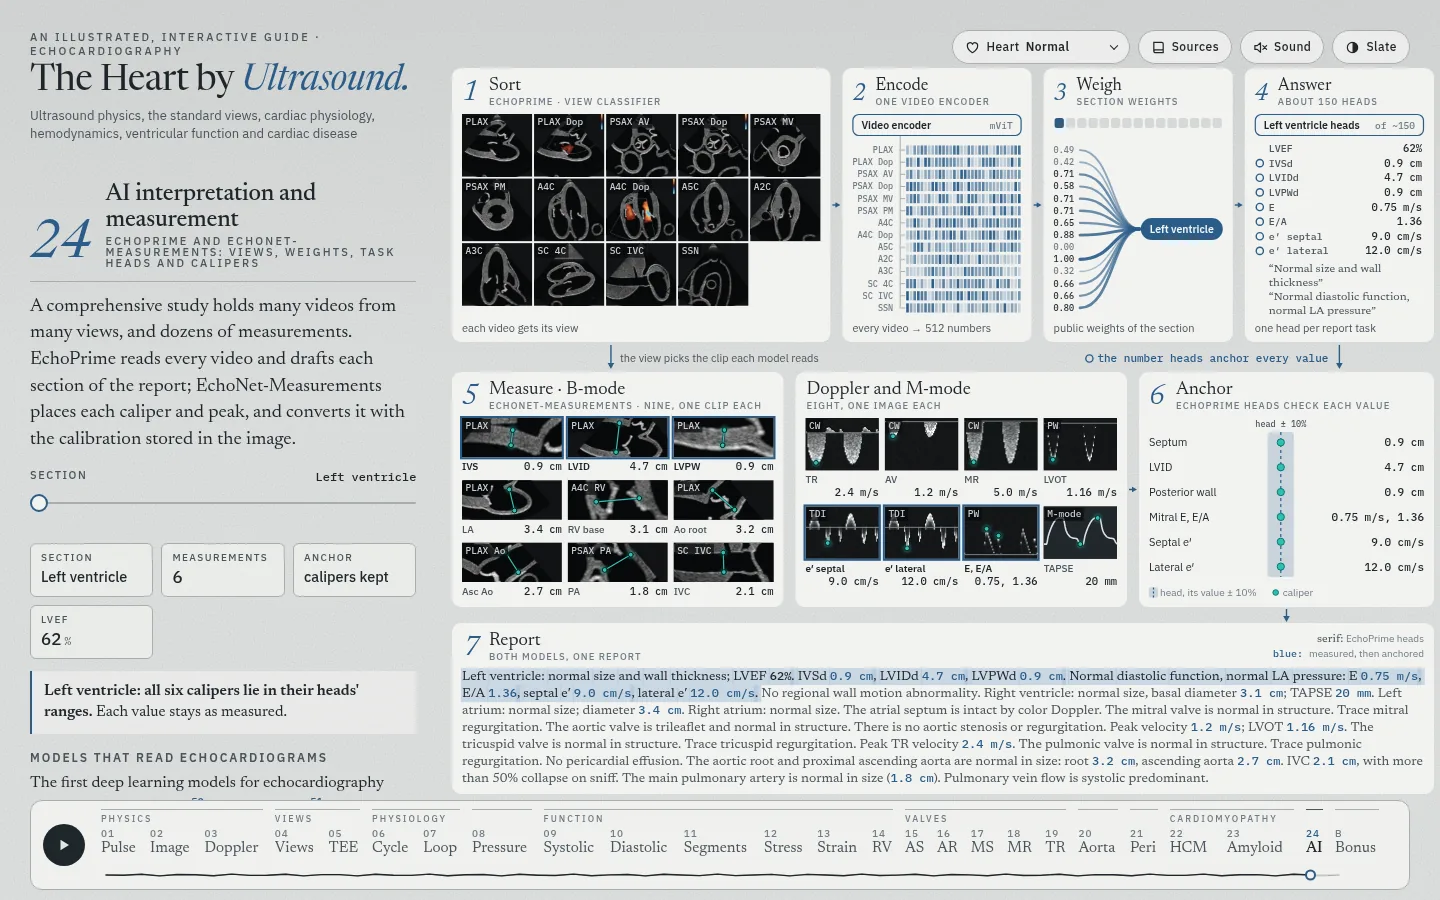
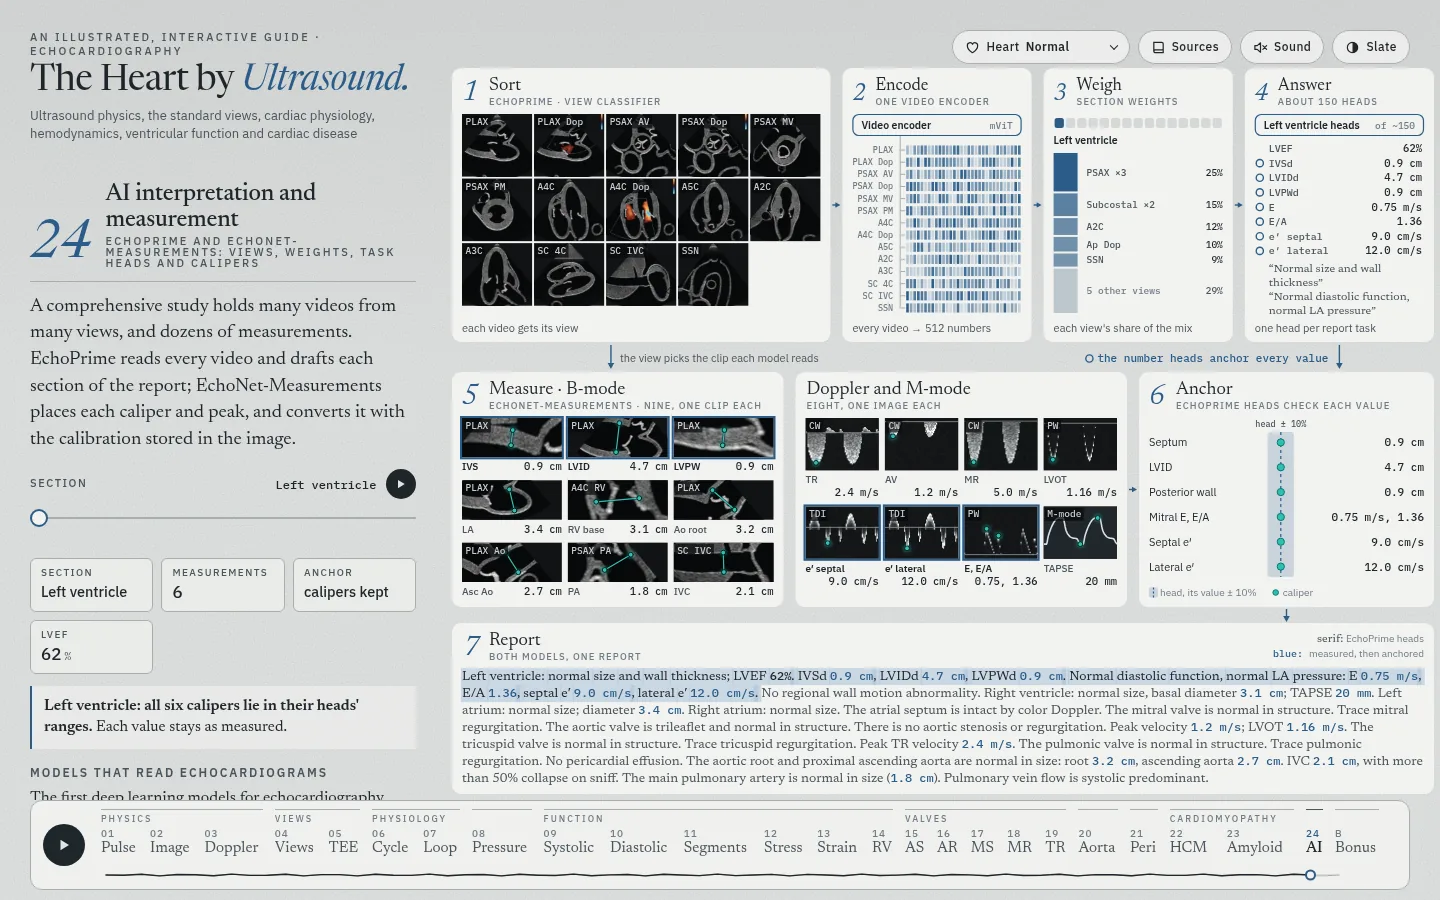
README: AI video and intro clip rendered with the mix; screenshot
- The AI video and the intro's AI clip, rendered again with step 3 as
  each view's share of the mix: frames, loudness, audio and the frame
  diff against the renders before.
- docs/screenshots/ai.webp taken again: the mix and the Play button.
- The video tables name the mix in place of the weights.

Claude-Session: https://claude.ai/code/session_01NtQNVy8YQ5NUAw3xwF3MnN

diff --git a/README.md b/README.md
@@ -479,6 +479,7 @@ The videos go to `video/out/`, which git ignores. Each frame depends on its time
 - Rendered again on October 8, 2026, after the color fix of #102, from the tree of main `d72284f`: 16 Aortic stenosis, 17 Aortic regurgitation, 21 Diseases of the aorta, B1 Left ventricular assist devices (2,777 frames) and B6 Complications of myocardial infarction (4,089 frames), with the scores in use. B1 and B6 measure −14.9 LUFS, with a true peak of −4.4 and −4.2 dBFS. The three main chapters were rendered again with the merge below, for their new numbers.
 - Rendered on October 8, 2026, with the merge of the IVC into 08 Doppler hemodynamics: its video in eight steps (1:15). The first five are the steps of the flow and the pressure. The switch to the IVC setting is a cut. The last three steps set the IVC for an RA pressure of 3, 8 and 15 mmHg, so the RV systolic pressure reads 39, 44 and 51 mmHg. Its score is built from the seed of Doppler hemodynamics, 9304. The video of 08 Inferior vena cava leaves the list, and its entry is in `archive/ivc.html`. 09 Systolic function to 24 AI interpretation and measurement were rendered again for their numbers (10 to 25 before), with the scores in use. Each has every frame of its layout, −14.8 to −14.9 LUFS and a true peak of −3.3 to −4.4 dBFS, with its moov atom before the media data. Against the renders before, frames of 09 to 23 at a quarter, a half and three quarters of each video differ only in the caption band, where the chapter's number changed. 24 shows the figure without tabs (#104) for the first time: the render before, as 25, still showed the tabs.
 - Rendered again on October 9, 2026, from this branch after #108: 24 AI interpretation and measurement, with this branch's figure: the marks in the InVision teal, no anchor check under each tile, steps 2, 3, 4 and 6 redrawn, and a label on every row of steps 2 and 3. It has every frame of its layout (2,237), −14.9 LUFS, a true peak of −4.1 dBFS and its moov atom before the media data. Its audio decodes to the same samples as the render before. A first render before `f81572b` is kept in `video/out/old/2026-10-09-pre-labels/`. Against it, at every 30th frame, the new labels of steps 2 and 3 change up to 1,240 pixels of a frame, and the encoding up to 39 pixels elsewhere. The render as 25 is kept in `video/out/old/2026-10-08-ai25/`.
+- Rendered again on October 10, 2026, with step 3 as each view's share of the chosen section's mix: 24 AI interpretation and measurement. The steps, their times and the length (1:15) do not change; the site's new Play button does not reach the video. It has every frame of its layout (2,237), −14.9 LUFS, a true peak of −4.1 dBFS and its moov atom before the media data. Its audio decodes to the same samples as the render before, which is kept in `video/out/old/2026-10-10-pre-share/`. Against it, at every 30th frame, the opening (frames 0 to 90) and the end card (2,130 to 2,220) are unchanged. In the frames between, the step-3 card shows the mix, and the captions of Weigh and Aortic valve name the two largest shares (up to 90,382 pixels of a frame).
 - Added on October 5, 2026, with its chapter: 25 Shunts: ASD, VSD and PFO (21 when added), eight steps in 1:21. The saline study starts again at each PFO step, so each step shows the bubbles arrive. A chapter title too long for one line on the title card takes smaller type, and the intro's card stays as it was (`fitTitle` in `video/chapter.js`).
 - Added on October 5, 2026, with its chapter: 20 Infective endocarditis (19 when added), seven steps (1:06).
 - Added on October 5, 2026, with its chapter: 26 Cardiac masses and thrombus (21 when added), eleven steps (1:33). Its title takes smaller type on the title card (`fitTitle`).
@@ -516,7 +517,7 @@ The videos go to `video/out/`, which git ignores. Each frame depends on its time
 | 21 Pericardial disease | No pericardial effusion to tamponade; constriction, then all three Mayo Clinic criteria | 1:06 |
 | 22 Hypertrophic cardiomyopathy | A normal wall; a septum of 14 mm; 16 mm without obstruction, then end-diastole; obstruction at rest, then severe; latent obstruction at rest, then with Valsalva and its SAM; severe obstruction with Valsalva | 1:32 |
 | 23 Cardiac amyloidosis | A normal wall to relative apical sparing | 0:48 |
-| 24 AI interpretation and measurement | The tour on the normal heart, with every step in view: views, encoder, the LV and aortic valve weights and task heads; then the 18 measurements, the anchor and the report's LV and aortic valve | 1:15 |
+| 24 AI interpretation and measurement | The tour on the normal heart, with every step in view: views, encoder, the LV and aortic valve mix and task heads; then the 18 measurements, the anchor and the report's LV and aortic valve | 1:15 |
 | B1 Left ventricular assist devices | A working pump at 4,700, 5,300 and 5,900 rpm, then a suction event at 6,200 rpm; RV failure at 6,200 rpm, then at 4,600 rpm; de novo AR at 4,700 and 6,000 rpm; an obstruction of the outflow graft at 4,700 rpm, then no change at 6,100 rpm | 1:33 |
 | B2 Prosthetic valves | A bioprosthesis: normal, possible stenosis and significant stenosis; a mechanical valve: the same three; then moderate and severe prosthesis–patient mismatch | 1:22 |
 | B3 Infective endocarditis | No vegetation; a vegetation below 10 mm; 10 mm or more; diastole, with the vegetation in the LV; leaflet perforation with mild, moderate and severe MR | 1:06 |
@@ -547,7 +548,7 @@ node tools/storyboard.mjs --ch=as                              # one frame of ea
 | 52.6 | 18 Mitral regurgitation | No regurgitation, then severe with LV dysfunction |
 | 59.4 | 21 Pericardial disease | No pericardial effusion, then tamponade |
 | 66.3 | 23 Cardiac amyloidosis | A normal wall, then relative apical sparing |
-| 73.1 | 24 AI interpretation and measurement | The LV section's weights, its task heads and the anchor |
+| 73.1 | 24 AI interpretation and measurement | The LV section's mix, its task heads and the anchor |
 | 82.3 | | End card |
 
 Left out, with the reason:
@@ -584,6 +585,7 @@ How it is built:
 - Rendered again, all ten clips, on October 8, 2026, from this branch after #103 (89 s, −14.9 LUFS). The title card names 25 chapters. The progress line names Pericardial disease (Pericardial effusion before), so its parts move in every clip. The AI clip shows the anchor in the row of the measurements and the report across the foot. Against the intro of October 7, at 2 frames a second, with a pixel counted when it moves by more than 32 levels: under the progress line, clips 0 to 8 differ by at most 450 pixels in a frame, and the end card is pixel-identical. The intro uses the score in use.
 - Rendered again, all ten clips, on October 8, 2026, with the merge of the IVC into 08 Doppler hemodynamics (2,674 frames, 89.13 s, −14.9 LUFS, a true peak of −4.0 dBFS). The title card names 24 chapters, and the captions take the new numbers. The score is the one in use. Against the intro of #105 (8 Oct), the frames at the middle of each clip differ only in the title card's count and the chapter's number in the caption band. The Image clip, which shares its encoding with the title card, also differs by encoding noise of 41 levels at most. The AI clip differs because #105 changes the AI figure.
 - Rendered again, all ten clips, on October 9, 2026, from this branch after #108 (2,674 frames, 89.13 s, −14.9 LUFS, a true peak of −4.0 dBFS). The AI clip shows this branch's figure, with a label on every row of steps 2 and 3, and its last caption reads that all six calipers lie in their heads' ranges. Against the intro of #108, at every 15th frame, clips 0 to 8 and the end card differ by no pixel that moves more than 32 levels. The AI clip differs in its figure and in its last caption. The audio decodes to the same samples. The intro before is kept in `video/out/old/2026-10-08-ai25/`.
+- Rendered again, the AI clip only (`--clips=9`), on October 10, 2026, with step 3 as each view's share of the mix, and joined with the nine clips kept in `video/out` (2,674 frames, 89.13 s, −14.9 LUFS, a true peak of −4.0 dBFS, moov first). Against the intro before, kept in `video/out/old/2026-10-10-pre-share/`, at every 15th frame, only the AI clip differs (frames 2,205 to 2,460): its step-3 card and its first caption, which names the two largest shares of the LV section. The audio decodes to the same samples.
 
 ```
 python3 tools/score/pulse.py intro video/out/intro.wav
@@ -602,6 +604,8 @@ Each entry keeps the chapter numbers of the day it was written.
   - Play at 1440 × 900 and 390 × 844: the chapter opens moving and the button reads Pause. A click on the figure pauses it, and the button reads "Play the report's sections". Play from step 3 at the pulmonic valve lights step 7 at the pulmonic valve, and 3.3 s later the pericardium. Pause holds the section. On the phone the row of steps 5 to 7 shows, and the button is free to tap under the figure.
   - Under the amyloid heart, 24 plays on its own and 15 Aortic stenosis does not; the severity button keeps its label, "Play the progression".
   - Every chapter by its address: 30 of 30 clean at 1440 × 900 and at 390 × 844. The AI figure's layout at 3,227 sizes: no findings. Each lit step in view, a click on the strip of sections after a scroll chooses section 8, no page errors. `node tools/check-state.mjs`: ok.
+  - The AI video and the intro's AI clip were rendered again (*The chapter videos*, *The intro*). `docs/screenshots/ai.webp` was taken again: it shows the mix and the Play button beside the Section slider.
+  - The site artifact (main with #105, #106 and #109) differs from version 106 in `src/aifig.js`, `src/ch/ai.js`, `src/main.js` and the Section control of `index.html` only. On that tree, 30 of 30 chapters open clean at 1440 × 900, and the Play checks pass.
 - AI interpretation and measurement: a label on every row of steps 2 and 3 down to 6.5 px a row (7 px before). The first render of the AI video after the merge below showed every second label at 6.86 px a row. The rows of the two weights that its caption names, the apical two-chamber view (1.00) and apical color Doppler (0.88), had no label. The 7 px type clears the next row from 6.5 px. Under 6.5 px, the rows of the chosen section's largest weights take their labels first, 7 px apart.
   - In a copy that logs the pitch, steps 2 and 3 are never under 6.86 px a row in the 3,227 layouts (6,454 drawings), so every layout labels every row. The rule under 6.5 px, tested alone: both groups that a caption names keep a label in 14 of 15 sections. In the left atrium, A4C (1.00) and A4C color Doppler (0.79) lie on adjacent rows, and the second keeps its line without a label.
   - `node --check` passes on `src/aifig.js`. `node tools/check-state.mjs` and `node tools/preload.mjs --check` pass. 3,227 layouts: no findings. The 30 chapters open at 1440 × 900 with no page error. `docs/screenshots/ai.webp` does not change: at 1440 × 900 every row had its label.
